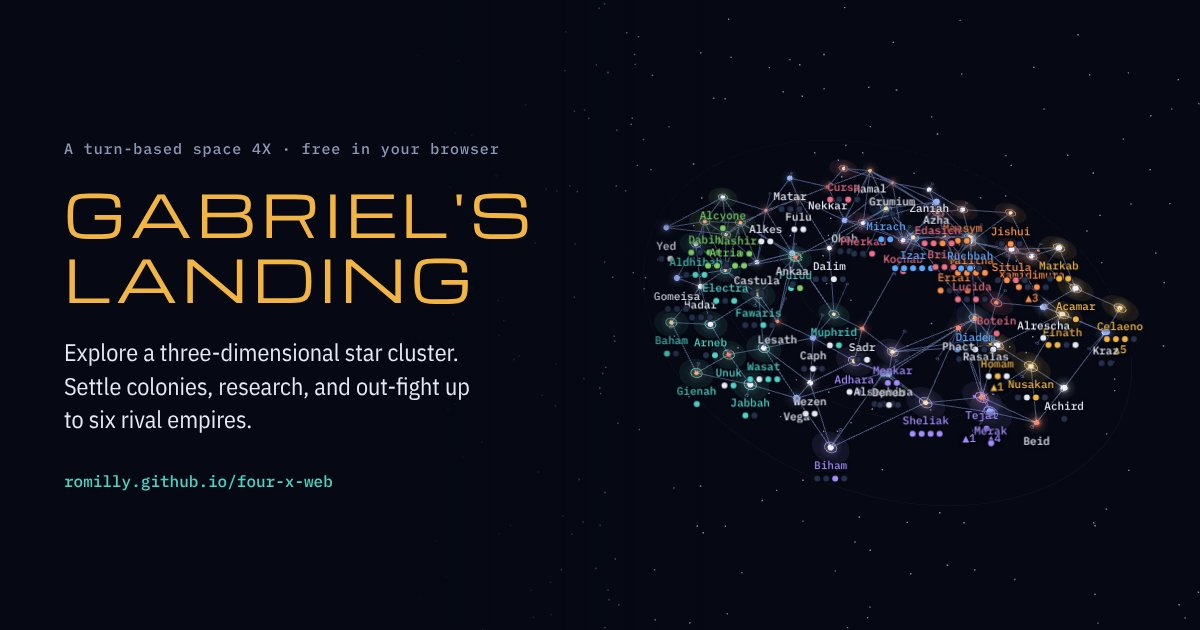
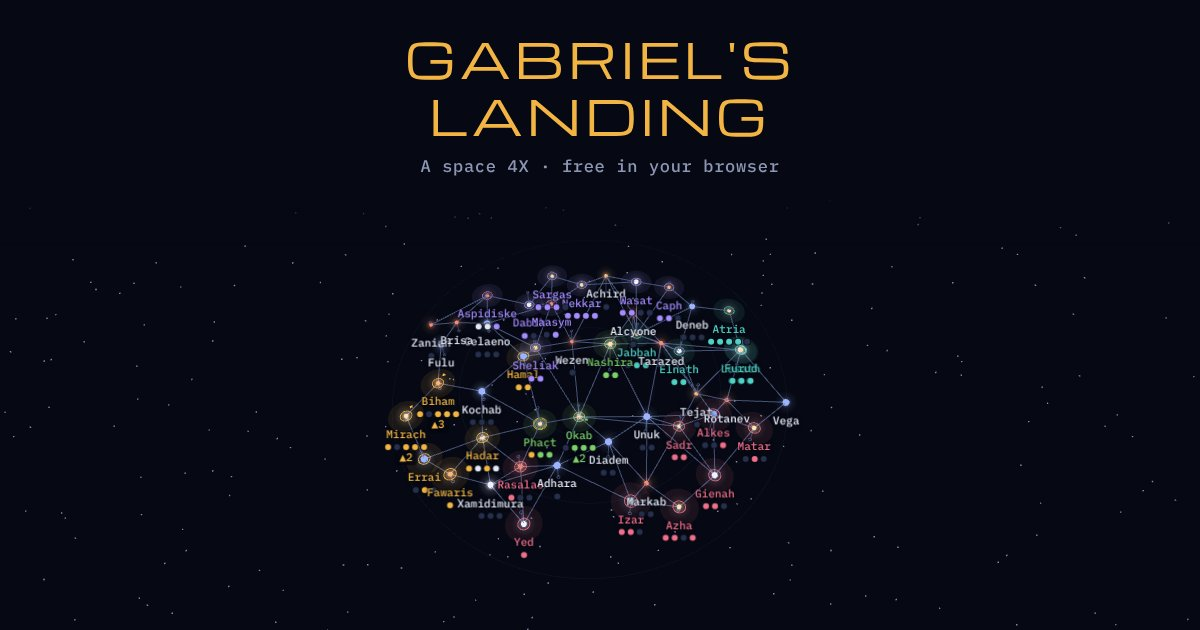
1.4.3: link-preview picture survives WhatsApp's square crop
Title centred above a medium galaxy, both inside the middle 630 x 630;
demo/preview.js refuses to write an image whose title or cluster falls
outside that square.

Claude-Session: https://claude.ai/code/session_01F93hjqEZk1e1uCXogNsqUr

diff --git a/demo/preview.js b/demo/preview.js
@@ -1,7 +1,8 @@
 // Makes the link-preview image, docs/preview.jpg (1200 x 630, a JPEG kept well under WhatsApp's reported 300 KB limit): `npm run preview`.
 // It is what chat apps, email and social sites show when someone pastes the game's link (the og:image in index.html).
-// A large galaxy, played for some turns by the rivals' own AI on every side so the empires have spread, fully charted,
-// with a title card over the left. The game's fonts come from node_modules, so no network is needed.
+// A medium galaxy, played for some turns by the rivals' own AI on every side so the empires have spread, fully charted,
+// with the title above it. WhatsApp shows the image as a square cut from the middle (x 285 to 915), so the title
+// and the whole cluster stay inside that square; the wide image just shows more starfield either side. The game's fonts come from node_modules, so no network is needed.
 const { chromium } = require('@playwright/test');
 const fs = require('fs'), path = require('path');
 const { serveGame, GAME_URL } = require('../e2e/serve');
@@ -21,7 +22,7 @@ const fontCss = FONTS.map(([family, weight, file]) =>
 
 // Runs in the page: a galaxy several turns in, with everything charted so stars show their names.
 function setUp({ SEED, TURNS }) {
-  let s = newGame(SEED, 'normal', 'large');
+  let s = newGame(SEED, 'normal', 'medium');
   const rng = makeRng(s.rngState);
   for (let t = 0; t < TURNS && !s.over; t++) {
     const orders = {};
@@ -34,27 +35,25 @@ function setUp({ SEED, TURNS }) {
   localStorage.setItem('gr-save-3', JSON.stringify({ game: s, pending: [] }));
 }
 
-// Runs in the page: hides the interface and lays a title card over the left of the map.
+// Runs in the page: hides the interface and puts the title across the top, centred.
 function titleCard() {
   for (const id of ['hud', 'sheet']) document.getElementById(id).style.display = 'none';
   const card = document.createElement('div');
-  card.innerHTML = `
-    <div class="k">A turn-based space 4X · free in your browser</div>
-    <h1>Gabriel's<br>Landing</h1>
-    <p>Explore a three-dimensional star cluster. Settle colonies, research, and out-fight up to six rival empires.</p>
-    <div class="u">romilly.github.io/four-x-web</div>`;
-  card.style.cssText = 'position:fixed;inset:0 auto 0 0;width:640px;z-index:30;display:flex;flex-direction:column;justify-content:center;' +
-    'padding:0 0 0 64px;background:linear-gradient(90deg,#060913 0%,#060913 55%,rgba(6,9,19,.75) 78%,rgba(6,9,19,0) 100%);pointer-events:none';
+  card.id = 'pv';
+  card.innerHTML = `<h1>Gabriel's<br>Landing</h1><div class="k">A space 4X · free in your browser</div>`;
+  card.style.cssText = 'position:fixed;left:0;right:0;top:0;height:215px;z-index:30;display:flex;flex-direction:column;align-items:center;' +
+    'justify-content:flex-start;padding-top:30px;text-align:center;pointer-events:none;' +
+    'background:linear-gradient(180deg,#060913 0%,#060913 80%,rgba(6,9,19,0) 100%)';
   const style = document.createElement('style');
   style.textContent = `
-    #pv .k{font:500 15px 'IBM Plex Mono',monospace;letter-spacing:.06em;color:#8d97b5}
-    #pv h1{margin:22px 0 26px;font:400 58px/1.12 Michroma,sans-serif;letter-spacing:.08em;text-transform:uppercase;color:#f2b544}
-    #pv p{margin:0;max-width:430px;font:400 24px/1.4 'IBM Plex Sans Condensed',sans-serif;color:#e6e9f2}
-    #pv .u{margin-top:34px;font:500 16px 'IBM Plex Mono',monospace;color:#4fd1c5}`;
-  card.id = 'pv';
+    #pv h1{margin:0 0 12px;font:400 48px/1.18 Michroma,sans-serif;letter-spacing:.08em;text-transform:uppercase;color:#f2b544}
+    #pv .k{font:500 17px 'IBM Plex Mono',monospace;letter-spacing:.04em;color:#8d97b5}`;
   document.head.appendChild(style);
   document.body.appendChild(card);
 }
+
+// The square WhatsApp keeps, with a margin: everything that matters must fall inside it.
+const SAFE = { x0: 315, x1: 885 };
 
 (async () => {
   const browser = await chromium.launch({ args: ['--use-gl=swiftshader', '--enable-unsafe-swiftshader'] });
@@ -71,27 +70,31 @@ function titleCard() {
   await page.evaluate(setUp, { SEED, TURNS });
   await page.reload();
   await page.waitForFunction(() => document.querySelectorAll('.lbl').length > 0);
-  // Zoom out and pan with the game's own mouse controls until the whole cluster sits in the right-hand part of the image.
+  // Zoom out and pan with the game's own mouse controls until the whole cluster sits below the title, in the middle.
   const labels = () => page.evaluate(() => {
     const r = [...document.querySelectorAll('.lbl')].map(l => l.getBoundingClientRect()).filter(r => r.width);
     const x = r.map(b => b.x + b.width / 2), y = r.map(b => b.y);
     return { x0: Math.min(...x), x1: Math.max(...x), y0: Math.min(...y), y1: Math.max(...y) };
   });
-  await page.mouse.move(900, 315);
-  for (let i = 0; i < 40; i++) {
-    const b = await labels();
-    if (b.x1 - b.x0 < 470 && b.y1 - b.y0 < 460) break;
-    await page.mouse.wheel(0, 120);
-    await page.waitForTimeout(120);
+  await page.mouse.move(600, 420);
+  // Zoom all the way out (the game caps how far), then pan the cluster to the middle, below the title.
+  // The camera eases into each move, so wait for it to settle before measuring. Off-screen labels are not counted.
+  await page.mouse.move(600, 420);
+  for (let i = 0; i < 40; i++) { await page.mouse.wheel(0, 120); await page.waitForTimeout(60); }
+  await page.waitForTimeout(1500);
+  for (let i = 0; i < 5; i++) {
+    const b = await labels(), dx = 600 - (b.x0 + b.x1) / 2, dy = 412 - (b.y0 + b.y1) / 2;
+    if (process.env.DEBUG) console.log('frame', i, JSON.stringify(b));
+    if (Math.abs(dx) < 6 && Math.abs(dy) < 6) break;
+    await page.mouse.move(600, 315); await page.mouse.down();
+    await page.mouse.move(600 + dx, 315 + dy, { steps: 12 }); await page.mouse.up();
+    await page.waitForTimeout(1000);
   }
-  for (let i = 0; i < 4; i++) {
-    const b = await labels(), dx = 890 - (b.x0 + b.x1) / 2, dy = 320 - (b.y0 + b.y1) / 2;
-    if (Math.abs(dx) < 8 && Math.abs(dy) < 8) break;
-    await page.mouse.move(700, 315); await page.mouse.down();
-    await page.mouse.move(700 + dx, 315 + dy, { steps: 12 }); await page.mouse.up();
-    await page.waitForTimeout(400);
-  }
+  const b = await labels();
+  if (b.x0 < SAFE.x0 || b.x1 > SAFE.x1 || b.y0 < 215 || b.y1 > 605) throw new Error(`the cluster does not fit the square crop: ${JSON.stringify(b)}`);
   await page.evaluate(titleCard);
+  const t = await page.evaluate(() => { const r = document.querySelector('#pv h1').getBoundingClientRect(); return { x0: r.x, x1: r.right }; });
+  if (t.x0 < SAFE.x0 || t.x1 > SAFE.x1) throw new Error(`the title does not fit the square crop: ${JSON.stringify(t)}`);
   await page.evaluate(() => document.fonts.ready);
   await page.waitForTimeout(1500);
   await page.screenshot({ path: OUT, type: 'jpeg', quality: 85 });

diff --git a/core.js b/core.js
@@ -1,6 +1,6 @@
 // CORE-START — pure domain core: plain data in, plain data out. No DOM, no I/O, no clock.
 // The game's version, semantic versioning. Keep package.json and CHANGELOG.md in step (a test checks).
-const GAME_VERSION='1.4.2';
+const GAME_VERSION='1.4.3';
 // A small Easy galaxy whose home system has a poor and a rich free planet; the tutorial is played in it.
 const TUTORIAL_SEED=164;
 const TYPES=['fighter','colony','scout'];

diff --git a/CHANGELOG.md b/CHANGELOG.md
@@ -8,6 +8,11 @@ and at the foot of the orders panel) and is recorded in every saved game.
 The save-file format has its own number (`version` in a save); it changes only when the shape of a saved
 game changes.
 
+## 1.4.3 (2026-11-03)
+
+- The link-preview picture is redesigned for WhatsApp, which shows it as a small square cut from the middle: the
+  title now sits centred above a medium galaxy, so both survive the crop. Other sites still show the full wide picture.
+
 ## 1.4.2 (2026-11-03)
 
 - The link-preview picture is now a JPEG of about 85 KB (`docs/preview.jpg`), replacing a 305 KB PNG: WhatsApp is
